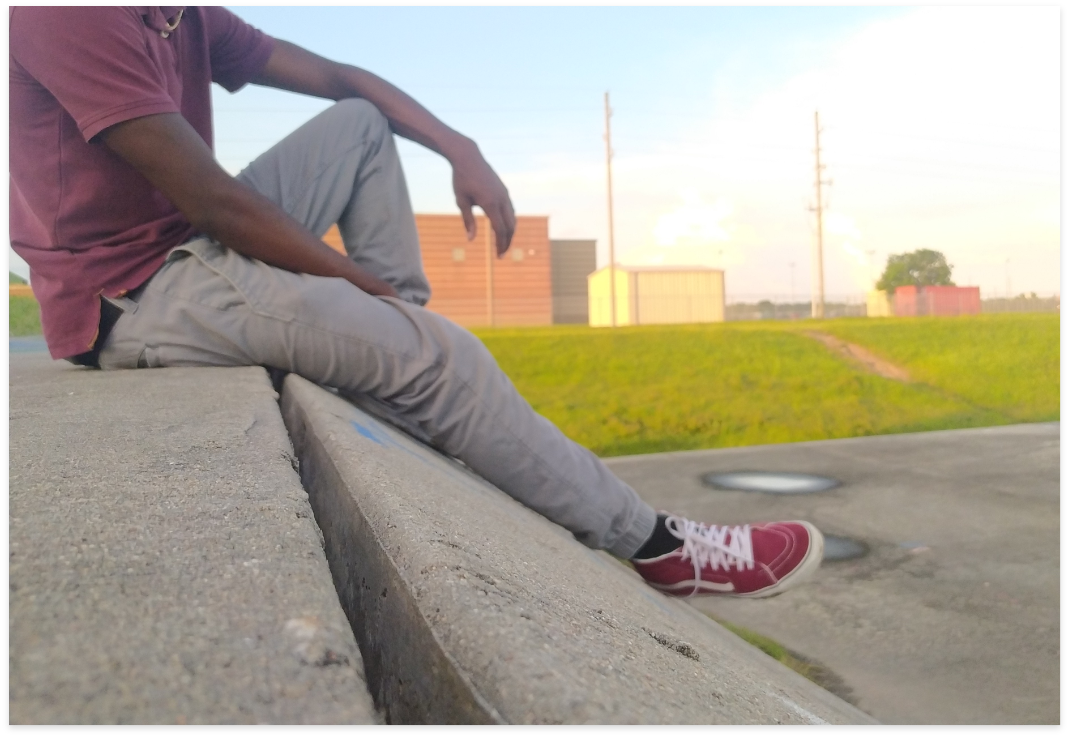
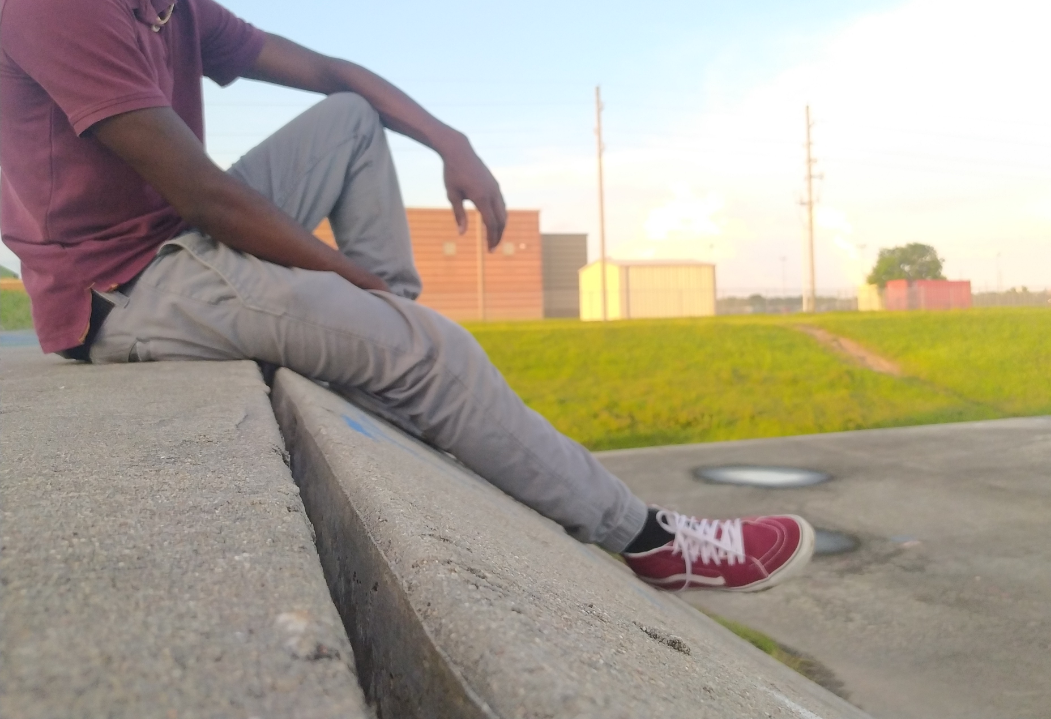
Home photos cropped. Mobile breakpoints added for home page.

diff --git a/index.html b/index.html
@@ -62,11 +62,11 @@
           <img
             src="assets\images\michael-border-stand-far.png"
             alt="Michael Gombos Standing"
-            class="img-fluid"
+            class="img-fluid border border-3"
           />
         </figure>
 
-        <div class="col-4 my-auto">
+        <div class="col-lg-4 col-10 offset-1 offset-lg-0 my-auto">
           <h2 class="display-3">About Me</h2>
           <p class="lead">
             I am a Computer Science major at HCC, I work from home as a Web
@@ -78,8 +78,8 @@
     <!-- Works-->
     <h2 class="display-3 text-center">My Most Recent Client</h2>
     <section class="container bg-primary py-4 mt-3">
-      <div class="row">
-        <div class="col-4 offset-1">
+      <div class="row flex-column flex-lg-row">
+        <div class="col-10 offset-1 offset-lg-0 col-lg-4 offset-1">
           <h3 class="display-5">Kbkaty.com</h3>
           <p class="text-altgray display-7"><em>Bootstrap</em></p>
           <p class="lead">
@@ -96,7 +96,9 @@
             ><i class="fas fa-arrow-circle-right fa-2x"></i>
           </button>
         </div>
-        <figure class="col-5 offset-1 my-auto">
+        <figure
+          class="col-10 col-lg-5 offset-1 my-auto order-first order-lg-last"
+        >
           <img
             src="assets\mockups\kbkaty-mockup-device-array.png"
             alt=""
@@ -107,8 +109,8 @@
     </section>
     <!-- Contact-->
     <section class="container my-5">
-      <div class="row">
-        <div class="col-4 offset-2 my-auto">
+      <div class="row flex-column flex-lg-row">
+        <div class="col-lg-4 col-10 offset-1 offset-lg-0 my-auto">
           <h2 class="display-3">Contact Me</h2>
           <p class="lead mb-0 mt-4">
             Email:
@@ -128,11 +130,11 @@
           </p>
         </div>
 
-        <figure class="col-4">
+        <figure class="col-lg-4 offset-1 col-10 order-first order-lg-lst">
           <img
             src="assets\images\michael-border-sit-far.png"
             alt="Michael Gombos Standing"
-            class="img-fluid"
+            class="img-fluid border border-3"
           />
         </figure>
       </div>
